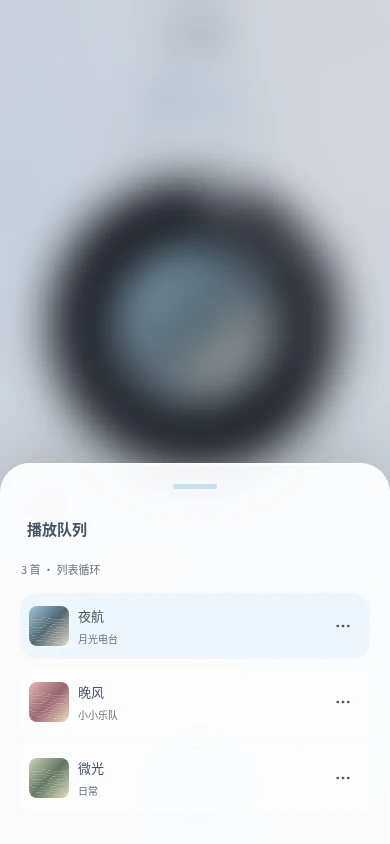
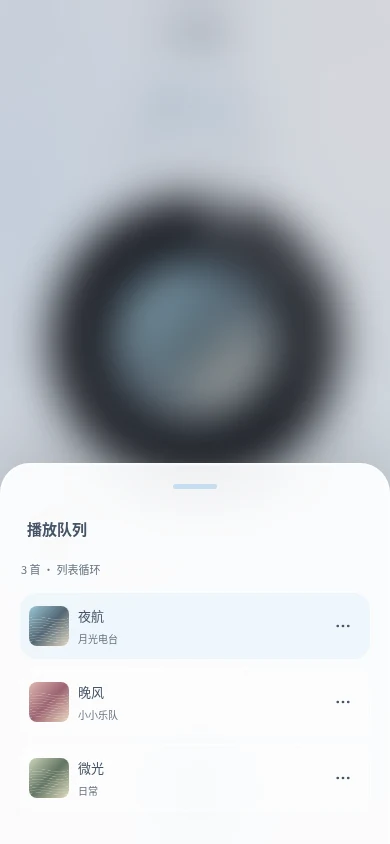
Refine music player spacing and simplify together card

Changed region(s): [[0.1538, 0.1848, 0.8615, 0.3389], [0.1538, 0.4621, 0.8615, 0.5545]]

diff --git a/src/apps/music/style.css b/src/apps/music/style.css
@@ -6,8 +6,8 @@
 .music-header{display:flex;align-items:center;justify-content:space-between;gap:12px;min-height:64px;padding:calc(8px + env(safe-area-inset-top)) 0 8px}
 .music-header h1{font:550 17px/1.3 var(--font-ui);text-align:center;min-width:0}.music-header>button{display:grid;place-items:center;width:44px;height:44px;flex-shrink:0;border-radius:12px;border:0;background:none;box-shadow:none}.music-header svg{width:20px;height:20px}.music-back svg{transform:rotate(0deg);transition:transform 280ms cubic-bezier(.22,.7,.2,1);transform-origin:center}.music-back.is-player svg{transform:rotate(-90deg)}
 .music-together{padding:18px 18px 16px;text-align:center}
-.music-together-label{display:flex;align-items:center;justify-content:center;gap:7px;font-size:11px;letter-spacing:.12em;color:var(--muted)}.music-together-label svg{width:15px;height:15px}
 .music-listening-status{--listening-avatar-size:72px;position:relative;min-height:144px;margin:16px 0 6px}
+.music-together .music-listening-status{min-height:136px}
 .music-listening-portraits{position:relative;width:calc(var(--listening-avatar-size) * 2 + 44px);height:var(--listening-avatar-size);margin:auto;isolation:isolate}
 .music-listening-cord{position:absolute;inset:0 auto auto 0;width:100%;height:auto;color:var(--muted);pointer-events:none;z-index:-1}
 .music-listening-cord path{stroke:url(#music-listening-cord-fade);stroke-width:1.5;stroke-linecap:round;vector-effect:non-scaling-stroke}
@@ -16,7 +16,7 @@
 .music-listening-avatars .avatar+.avatar{margin-left:-6px}.music-listening-avatars .avatar>span{font-size:24px}
 .music-listening-meta{position:relative;display:flex;flex-wrap:wrap;justify-content:center;margin-top:21px;font-size:12px;line-height:1.8;color:var(--muted);font-variant-numeric:lining-nums tabular-nums}.music-listening-meta>span{white-space:nowrap}
 .music-together-song{display:flex;flex-direction:column;align-items:center;justify-content:center;gap:6px;min-height:54px;width:100%;padding:4px;border-radius:16px}.music-together-song strong{font-size:15px;font-weight:500;line-height:1.6;overflow-wrap:anywhere}.music-together-song>span{font-size:11px;line-height:1.6;color:var(--muted)}
-.music-import-link{display:inline-flex;align-items:center;gap:5px;min-height:44px;padding:0 10px;border-radius:16px;font-size:11px;color:var(--muted)}.music-import-link svg{width:14px;height:14px}.music-together-progress{height:2px;margin-top:8px;border-radius:2px;background:rgb(var(--tint) / .18);overflow:hidden}.music-together-progress>span{display:block;height:100%;background:var(--accent)}
+.music-together-progress{height:2px;margin-top:8px;border-radius:2px;background:rgb(var(--tint) / .18);overflow:hidden}.music-together-progress>span{display:block;height:100%;background:var(--accent)}
 .music-section-heading{display:flex;align-items:center;gap:10px;margin:16px 4px 10px;min-height:44px}.music-section-heading h2{font:500 26px/1.2 var(--font-en);margin-right:auto}.music-section-heading>button{width:44px;height:44px;display:grid;place-items:center;border-radius:14px}
 .music-playlist-grid{display:grid;grid-template-columns:repeat(2,minmax(0,1fr));gap:18px 14px}.music-playlist-card{min-width:0}.music-cover-wrap{position:relative}.music-cover-hit{display:block;padding:0;width:100%;border-radius:22px}.music-app .music-cover-art.app-panel{display:grid;place-items:center;width:100%;aspect-ratio:1;border-radius:22px;overflow:hidden;background:color-mix(in srgb,color-mix(in srgb,var(--cover-tint) 76%,var(--solid)) calc(72% * var(--glass-soften)),rgb(var(--glass-tint)) calc(var(--glass-solid) * 100%));box-shadow:inset 0 1px 0 rgb(255 255 255 / .3),0 5px 16px rgb(0 0 0 / .025)}
 .music-cover-art img,.music-detail-cover img,.music-song-cover img,.music-edit-cover img{width:100%;height:100%;object-fit:cover}.music-art-placeholder{width:100%;height:100%;display:grid;place-items:center}.music-art-placeholder svg{width:30%;height:30%;color:var(--ink)}
@@ -33,7 +33,7 @@
 .music-search{display:flex;align-items:center;gap:8px;margin:14px 4px 9px;padding:0 12px;border:1px solid var(--hairline);border-radius:15px}.music-search>svg{width:16px;height:16px;color:var(--muted)}.music-search input{border:0;background:none;min-width:0;width:100%;min-height:44px;font:16px/1.4 var(--font-ui);padding:8px 0}.music-search input::placeholder{color:var(--muted);font-size:12px}.music-search:focus-within{outline:1px solid var(--accent);outline-offset:2px}.music-search input:focus-visible{outline:none}
 .music-song-row{display:flex;align-items:center;min-height:68px;min-width:0;border-radius:17px}.music-song-row.is-current{background:rgb(var(--tint) / .1)}.music-song-main{display:flex;align-items:center;gap:9px;text-align:left;min-height:64px;flex:1;min-width:0;padding:6px 4px;border-radius:16px}.music-song-cover{width:40px;height:40px;overflow:hidden;border-radius:8px;flex-shrink:0;background:rgb(var(--tint) / .15)}.music-song-cover .music-art-placeholder svg{width:19px;height:19px}.music-song-text{display:flex;flex-direction:column;gap:5px;min-width:0}.music-song-text strong{font-size:13px;font-weight:500;line-height:1.5;white-space:nowrap;overflow:hidden;text-overflow:ellipsis}.music-song-text small{font-size:10px;line-height:1.5;color:var(--muted);white-space:nowrap;overflow:hidden;text-overflow:ellipsis}.music-song-row>button:last-child{display:grid;place-items:center;width:44px;height:44px;flex-shrink:0;border-radius:15px}.music-song-row>button:last-child svg{width:18px;height:18px}
 .music-list-empty{text-align:center;padding:32px 10px 24px}.music-list-empty>svg{width:28px;height:28px;color:var(--muted);margin-bottom:14px}.music-list-empty h3{font-size:14px;font-weight:500;margin:0 0 8px}.music-list-empty p{font-size:11px;line-height:1.8;color:var(--muted)}.music-list-empty button{min-height:44px;padding:6px 18px;border:1px solid var(--line);border-radius:24px;font-size:12px;margin-top:16px;background:var(--music-fill)}
-.music-player-page{display:flex;flex-direction:column;min-height:calc(100dvh - 64px - env(safe-area-inset-top));padding:0 10px calc(24px + env(safe-area-inset-bottom))}.music-player-page .music-listening-status{--listening-avatar-size:60px;min-height:108px;margin:0 0 4px;flex-shrink:0}.music-player-page .music-listening-meta{font-size:11px;margin-top:12px}.music-record-stage{height:clamp(225px,35dvh,310px);position:relative;display:flex;align-items:flex-end;justify-content:center;margin-bottom:20px;flex-shrink:0}
+.music-player-page{display:flex;flex-direction:column;min-height:calc(100dvh - 64px - env(safe-area-inset-top));padding:0 10px calc(24px + env(safe-area-inset-bottom))}.music-player-page .music-listening-status{--listening-avatar-size:60px;min-height:108px;margin:8px 0 12px;flex-shrink:0}.music-player-page .music-listening-meta{font-size:11px;margin-top:12px}.music-record-stage{height:clamp(225px,35dvh,310px);position:relative;display:flex;align-items:flex-end;justify-content:center;margin-bottom:20px;flex-shrink:0}
 .music-vinyl{display:grid;place-items:center;position:relative;width:clamp(235px,75vw,310px);aspect-ratio:1;border-radius:50%;padding:0;background:repeating-radial-gradient(circle at center,#24262c 0 1px,#1c1e23 2px 5px);border:1px solid rgb(255 255 255 / .16);box-shadow:inset 0 0 0 9px rgb(255 255 255 / .025),0 10px 28px rgb(0 0 0 / .13);animation:music-record-spin 20s linear infinite;animation-play-state:paused}.music-vinyl:before{content:'';position:absolute;inset:0;border-radius:50%;background:conic-gradient(from 30deg,transparent,rgb(255 255 255 / .08),transparent 32%,rgb(255 255 255 / .045) 56%,transparent 80%);pointer-events:none}.music-vinyl:disabled{opacity:1;cursor:default}.music-vinyl.is-spinning{animation-play-state:running}
 .music-record-label{display:grid;place-items:center;position:relative;width:53%;aspect-ratio:1;overflow:hidden;border-radius:50%;background:color-mix(in srgb,var(--accent) 55%,var(--solid));border:6px solid rgb(255 255 255 / .055);color:var(--ink)}.music-record-label img{width:100%;height:100%;object-fit:cover}.music-record-word{font:500 italic 28px/1 var(--font-en);letter-spacing:.03em}.music-record-hole{position:absolute;left:calc(50% - 4px);top:calc(50% - 4px);width:8px;height:8px;border-radius:50%;background:var(--music-vinyl);border:1px solid rgb(255 255 255 / .2)}
 .music-tonearm{position:absolute;right:40px;top:2px;width:145px;height:184px;z-index:2;overflow:visible;transform:rotate(-21deg);transform-origin:28% 10%;transition:transform 500ms ease;pointer-events:none;fill:color-mix(in srgb,var(--ink) 45%,var(--solid));stroke:rgb(255 255 255 / .3);stroke-width:1}.music-arm-pivot{fill:var(--solid)}.music-tonearm .music-arm-shadow{stroke:rgb(0 0 0 / .13);stroke-width:9;fill:none}.music-tonearm .music-arm-line{stroke:color-mix(in srgb,var(--ink) 30%,var(--solid));stroke-width:6;fill:none;stroke-linecap:round}.music-player-page.is-playing .music-tonearm{transform:rotate(13deg)}
@@ -44,8 +44,8 @@
 .music-sheet{position:fixed;inset:auto 0 0;margin:0 auto;max-width:none}.music-sheet::backdrop{background:rgb(20 24 33 / .16);backdrop-filter:blur(var(--glass-blur));-webkit-backdrop-filter:blur(var(--glass-blur))}.music-sheet-hint,.music-queue-empty{font-size:11px;line-height:1.8;color:var(--muted);margin:12px 2px}.music-sheet-error{font-size:12px;line-height:1.8;margin:12px 0}.music-sheet-footer{display:flex;align-items:center;justify-content:space-between;gap:12px;margin-top:20px}.music-sheet-footer>button:first-child:not(:last-child){min-height:44px;font-size:12px;padding:6px 10px;border-radius:15px}
 .music-track-picker{border:0;margin:20px 0;padding:0}.music-track-picker legend{font-size:12px;margin-bottom:10px;padding:0}.music-track-picker>label{display:flex;gap:10px;align-items:center;min-height:54px}.music-track-picker input{width:18px;height:18px;flex-shrink:0}.music-track-picker label>span{display:flex;flex-direction:column;gap:5px;font-size:12px;min-width:0;overflow-wrap:anywhere}.music-track-picker small{font-size:10px;color:var(--muted)}.music-track-picker>p{font-size:11px;color:var(--muted);line-height:1.8}.music-art-editor{display:flex;align-items:center;gap:12px;flex-wrap:wrap;margin-top:18px}.music-edit-cover{width:66px;height:66px;border-radius:14px;overflow:hidden;background:rgb(var(--tint) / .15)}.music-art-editor>button,.music-replace-file{min-height:44px;font-size:11px;border-radius:15px;padding:8px}.music-art-editor .upload-label{font-size:11px}
 @keyframes music-record-spin{to{transform:rotate(360deg)}}
-@media(max-width:350px){.music-listening-status{--listening-avatar-size:64px;min-height:130px}.music-together{padding:16px 12px 14px}.music-together-song strong{font-size:14px}.music-playlist-intro{grid-template-columns:90px minmax(0,1fr);gap:12px}.music-playlist-intro h2{font-size:16px}.music-player-page{padding-left:4px;padding-right:4px}.music-vinyl{width:235px}.music-tonearm{right:40px;width:128px;height:170px}.music-player-track h2{font-size:19px}.music-player-controls{gap:2px}.music-player-controls .music-main-toggle{width:58px;height:58px}.music-mini{padding-left:8px}.music-mini-open{gap:7px}.music-mini-open strong{font-size:11px}.music-mini-disc{width:38px;height:38px}.music-header h1{font-size:16px}}
-@media(max-height:700px){.music-player-page{padding-bottom:calc(16px + env(safe-area-inset-bottom))}.music-player-page .music-listening-status{--listening-avatar-size:48px;min-height:88px;margin-bottom:4px}.music-record-stage{height:31dvh;margin-bottom:12px}.music-vinyl{width:min(68vw,29dvh)}.music-tonearm{width:112px;height:146px;right:38px}.music-player-track h2{font-size:18px;line-height:1.4}.music-player-track p{font-size:11px;line-height:1.5}.music-player-breath{min-height:8px}.music-progress{margin-top:0}.music-player-controls{margin-top:12px}.music-player-controls .music-main-toggle{width:58px;height:58px}}
+@media(max-width:350px){.music-listening-status{--listening-avatar-size:64px;min-height:130px}.music-together .music-listening-status{min-height:124px}.music-together{padding:16px 12px 14px}.music-together-song strong{font-size:14px}.music-playlist-intro{grid-template-columns:90px minmax(0,1fr);gap:12px}.music-playlist-intro h2{font-size:16px}.music-player-page{padding-left:4px;padding-right:4px}.music-vinyl{width:235px}.music-tonearm{right:40px;width:128px;height:170px}.music-player-track h2{font-size:19px}.music-player-controls{gap:2px}.music-player-controls .music-main-toggle{width:58px;height:58px}.music-mini{padding-left:8px}.music-mini-open{gap:7px}.music-mini-open strong{font-size:11px}.music-mini-disc{width:38px;height:38px}.music-header h1{font-size:16px}}
+@media(max-height:700px){.music-player-page{padding-bottom:calc(16px + env(safe-area-inset-bottom))}.music-player-page .music-listening-status{--listening-avatar-size:48px;min-height:88px;margin:6px 0 8px}.music-record-stage{height:31dvh;margin-bottom:12px}.music-vinyl{width:min(68vw,29dvh)}.music-tonearm{width:112px;height:146px;right:38px}.music-player-track h2{font-size:18px;line-height:1.4}.music-player-track p{font-size:11px;line-height:1.5}.music-player-breath{min-height:8px}.music-progress{margin-top:0}.music-player-controls{margin-top:12px}.music-player-controls .music-main-toggle{width:58px;height:58px}}
 @media(prefers-reduced-motion:reduce){.music-vinyl,.music-mini-disc{animation:none!important}.music-tonearm,.music-back svg{transition:none}}
 [data-theme=dark] .music-app .music-cover-art.app-panel,[data-theme=dark] .music-app .music-detail-cover.app-panel{background:color-mix(in srgb,color-mix(in srgb,var(--cover-tint) 32%,var(--solid)) calc(60% * var(--glass-soften)),rgb(var(--glass-tint)) calc(var(--glass-solid) * 100%))}
 [data-theme=dark] .music-sheet::backdrop{background:rgb(0 0 0 / .3)}

diff --git a/src/apps/music/view.js b/src/apps/music/view.js
@@ -26,7 +26,7 @@ function togetherStatus(state,ui) {
 }
 function home(state,ui,collections) {
  const track=current(state);
- return `${header('music')}<section class="music-together app-panel glass"><div class="music-together-label">${icon('headphones')}<span>一起听</span></div>${togetherStatus(state,ui)}<button class="music-together-song" data-music-action="player"><strong>${escape(track?.title||'让喜欢的旋律，陪着日常。')}</strong><span>${escape(track?.artist||'你和 '+state.persona.name+' 的小小唱片架')}</span></button><button class="music-import-link" data-music-action="import">${icon('plus')}添加本机音乐</button><div class="music-together-progress" aria-hidden="true"><span data-music-progress-line style="width:${ui.duration?ui.time/ui.duration*100:0}%"></span></div></section><div class="music-section-heading"><h2 lang="en">Playlists</h2>${action('new-playlist','plus','新建歌单')}</div><div class="music-playlist-grid">${collections.map(card).join('')}<button class="music-new-card" data-music-action="new-playlist">${icon('plus')}<span>新建歌单</span></button></div><p class="music-storage-note">音乐保存在本机；换设备恢复歌单后，需重新选择文件。</p>${mini(state,ui)}`;
+ return `${header('music')}<section class="music-together app-panel glass" aria-label="一起听">${togetherStatus(state,ui)}<button class="music-together-song" data-music-action="player"><strong>${escape(track?.title||'让喜欢的旋律，陪着日常。')}</strong><span>${escape(track?.artist||'你和 '+state.persona.name+' 的小小唱片架')}</span></button><div class="music-together-progress" aria-hidden="true"><span data-music-progress-line style="width:${ui.duration?ui.time/ui.duration*100:0}%"></span></div></section><div class="music-section-heading"><h2 lang="en">Playlists</h2>${action('new-playlist','plus','新建歌单')}</div><div class="music-playlist-grid">${collections.map(card).join('')}<button class="music-new-card" data-music-action="new-playlist">${icon('plus')}<span>新建歌单</span></button></div><p class="music-storage-note">音乐保存在本机；换设备恢复歌单后，需重新选择文件。</p>${mini(state,ui)}`;
 }
 export function musicSongRows(tracks,ui,music,queue=false) {
  return tracks.map(track=>`<article class="music-song-row ${queue?'drawer-card':''} ${track.id===music.currentId?'is-current':''}"><button class="music-song-main" data-music-track="${escape(track.id)}" ${queue?'data-music-from-queue':''} aria-label="播放 ${escape(track.title)}"><span class="music-song-cover">${musicArtwork(track)}</span><span class="music-song-text"><strong>${escape(track.title)}</strong><small>${escape(track.artist)}</small></span></button><button data-music-track-menu="${escape(track.id)}" aria-label="${escape(track.title)}的歌曲信息">${icon('more')}</button></article>`).join('');

diff --git a/docs/CODEX_HANDOFF.md b/docs/CODEX_HANDOFF.md
@@ -36,6 +36,7 @@
 - 音乐 App 已按手机音乐 App 的布局重构：首页「一起听」头像卡 + 双列方形歌单，封面右下角为播放三角；歌单详情包含封面、名字/介绍、播放全部、搜索和歌曲行；底部固定小播放器可打开黑胶详情。播放页有唱臂、唱片、封面、收藏、进度条、上一首/下一首、循环/随机和队列抽屉。保留全局壁纸，不添加参考 HTML 的装饰背景圆，玻璃表面沿用统一透明度/模糊。旋转只跟随真实播放，暂停时停转，减少动态效果时不旋转。
 - 音乐首页与歌曲详情页共用「一起听」状态：双方头像靠近/轻微重叠，两侧从头像外缘垂下耳机线，SVG 线条通过竖向渐变向底部淡出；下方展示「相距…公里，一起听了…分钟」。详情页状态位于页头下方、唱片上方，短屏缩小头像/唱片及间距；已删除旧的「让旋律陪着这一刻」小头像行和「本机音乐」页脚，载入状态显示在页头，缺失音频时仍保留补回文件入口。头像沿用全局已保存图片。状态数据由 UI 的 together.distanceKm / together.elapsedSeconds 接收，缺少/非法值显示短横，0 值正常显示；距离最多两位小数，时长按完整分钟显示。目前无位置/同步一起听服务，默认两项为 null，不编造距离或时长，不请求定位，也不写入音乐持久数据。
 - 音乐首页顶部标题为小写 music；页头返回、搜索和更多按钮为无填充/无边框图标，保留 44px 点击区域与键盘焦点。音乐内部更新保留页头、返回按钮及 SVG，左箭头与下箭头使用同一 SVG 旋转 280ms，快速反向切换连续过渡；减少动态效果时直接切换。保留页头后，音乐自己的按钮点击只由音乐控制器处理一次，避免变更后的返回动作再次触发全局导航。歌曲列表/队列不展示序号和当前播放耳机标记，保留当前歌曲的背景高亮；首页 Playlists 右侧不展示歌单总数。
+- 首页头像卡不再显示顶部耳机图标／「一起听」标题及「添加本机音乐」按钮，保留一起听的无障碍名称、头像、耳机线、距离／时长、歌曲信息和进度线；歌曲信息上提约 22–24px，卡片随内容收紧。音乐导入仍可从歌单或空播放器进入。详情页头像状态下移 8px，唱片与歌曲信息下移 16px；高度不超过 700px 时分别缩减为 6px／10px，通过现有弹性留白保持播放控件的位置，避免挤出首屏。
 - 音乐支持用户添加本机文件（单首最多 80MB、曲库最多 500 首，支持程度取决于浏览器音频解码）、新建/管理/删除歌单、收藏歌曲、编辑曲名/歌手/封面、删除歌曲及补回缺失文件。默认曲库为空，仅提供我喜欢的音乐/全部音乐/最近播放三份真实集合，不导入参考稿的假歌名、假数量、歌词或一起听时长。头像陪伴区是界面设计，尚无多人或 AI 音频同步。
 - `music` 状态保存歌曲元数据、歌单、当前歌曲 ID、队列和循环模式，沿用同源 localStorage 与 v1/v2 JSON 备份兼容；旧备份缺字段时补空曲库。实际音频独立保存在 IndexedDB `chenxin.music.files.v1` 的 files 表，不放入 localStorage 或 JSON 备份。刷新不自动播放；同浏览器原文件仍可播放，换设备恢复歌单后可用「重新选择音乐文件」补回原 ID，保留曲名/封面/歌单。导入完整备份时取消播放和未完成的旧播放请求，避免播放已替换的曲库。
 - 主页顶部原来的品牌/「我们的主页」标题区域已删除。
@@ -158,3 +159,5 @@ npm test
 一起听状态样式验证：语法检查与 33 项 Node 测试通过；Chromium 在 320px、390px 的昼夜模式检查头像/耳机线/渐隐、状态缺省/有效/零/非法值、无横向溢出、播放页往返，以及原有本机数据保留。音乐首页预览已更新。
 
 共用抽屉与详情页调整验证：语法检查和 33 项 Node 测试通过；Chromium 在 320×640、390×844 验证普通/减少动态效果下的横条点击、下拖、短拖回弹、遮罩、Escape、焦点与聊天背景恢复、输入/编辑草稿保留、昼夜相同材质及无横向溢出；这两种竖屏下播放控件留在首屏。另在 320×640、390×844、844×390 复查本机音频导入、播放/暂停/进度/切歌、封面/收藏/队列、歌单编辑、刷新播放与 JSON 备份恢复，原会话/日记/便签/布局保持不变。队列切换至歌曲编辑、取消改名及焦点恢复已检查。最新预览增加 `docs/preview-music-queue.webp`、`docs/preview-music-queue-dark.webp`、`docs/preview-music-editor.webp`、`docs/preview-expression-sheet.webp`，播放器与附件抽屉预览同步更新。
+
+音乐留白微调验证：语法检查与 33 项测试通过；Chromium 在 320×640、390×844、430×932 的昼夜预览确认首页删去两处标记内容、歌曲信息上提与详情页微幅下移，播放控件仍在首屏且纵向位置不变。验证歌单导入／播放／暂停、详情与队列打开关闭、回到首页歌曲状态、无横向溢出及音乐持久数据保持不变；首页与播放器相关预览已更新。
